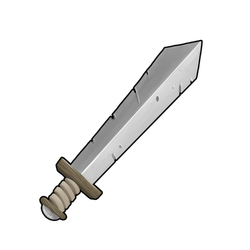
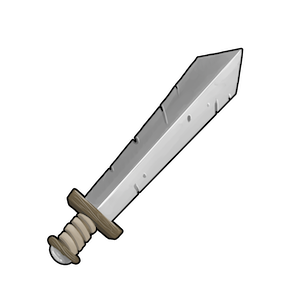
Optimize some image file sizes

diff --git a/src/components/town/randomEvents/GatherGold.js b/src/components/town/randomEvents/GatherGold.js
@@ -7,7 +7,7 @@ import { EventModal, EventModalPage } from '../../modals/EventModal';
 export const GatherGold = ({ closeModal }) => {
   const dispatch = useDispatch();
 
-  const goldEarned = random(20, 40);
+  const goldEarned = random(15, 30);
 
   return (
     <EventModal

diff --git a/src/cards/attacks.js b/src/cards/attacks.js
@@ -120,7 +120,7 @@ export const attacks = [
   },
   {
     name: 'Healing Blade',
-    image: 'fat_blue_sword',
+    image: 'healing_blade',
     imageSlant: 1,
     rarity: 'rare',
     attack: 4,
